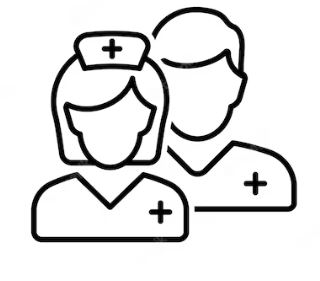
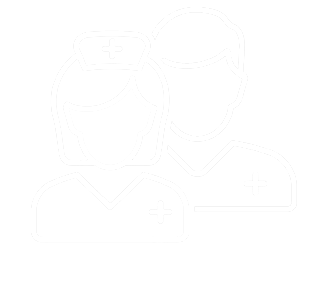
fixed a few things
fixed the links
fixed the images to blend with the cards background
centered the h2 for the cards

Changed region(s): [[0.0938, 0.0, 0.9375, 0.8826]]

diff --git a/Services.html b/Services.html
@@ -14,16 +14,17 @@
 <!-- Clinic logo & name of health center -->
 <img src="images/cross.png" alt="Kuyasa Health Center Logo">  
     <a id="logo_name"> Kuyasa Health Center </a>   
-    <a href="/contact.html">Contact</a>  
-    <a href="/Services.html">Services</a>
-    <a href="/About Us.html">About Us</a>
-    <a class="active"href="/index.html">Home</a>
+    <a href="contact.html">Contact</a>  
+    <a href="Services.html">Services</a>
+    <a href="About Us.html">About Us</a>
+    <a class="active"href="index.html">Home</a>
  </div>
       
         
 <!-- Information cards -->
 <section class="container">
   <div class ="card">
+    <div class="card-image img1"></div>
     <input type="datetime-local" name="schedule" id="scheduletime">
   <input type="submit">
     <h2> Appointment Schedule </h2>

diff --git a/style.css b/style.css
@@ -140,20 +140,27 @@ line-height: 1.5;
   margin-bottom: 15px;
   background-size: cover;
   border-radius: 15px 15px 0 0;
-  
+}
 
+
+.img1 {
+    background-image: url("images/schedule.png");
+  margin: 20%;
 }
 
 .img2 {
-  background-image: url("/images/assistance.png");
+  background-image: url("images/assistance.png");
+  margin: 20%;
 }
 
 .img3 {
-  background-image: url("/images/prescription.png");
+  background-image: url("images/prescription.png");
+  margin: 20%;
 }
 
 .img4 {
-  background-image: url("/images/mental.jpg");
+  background-image: url("images/mental.png");
+  margin: 20%;
 }
 
 .card p{
@@ -163,6 +170,8 @@ line-height: 1.5;
 
 .card h2 {
   color: white;
+  padding: 10%;
+  margin: 0;
 }
 
 .card a{

diff --git a/About Us.html b/About Us.html
@@ -16,10 +16,10 @@
 <!-- Clinic logo & name of health center -->
         <img src="images/cross.png" alt="Kuyasa Health Center Logo"> 
         <a id="logo_name"> Kuyasa Health Center </a>   
-        <a href="/contact.html">Contact</a>  
-        <a href="/Services.html">Services</a>
-        <a href="/About Us.html">About Us</a>
-        <a class="active"href="/index.html">Home</a>
+        <a href="contact.html">Contact</a>  
+        <a href="Services.html">Services</a>
+        <a href="About Us.html">About Us</a>
+        <a class="active"href="index.html">Home</a>
       </div>
 
 

diff --git a/index.html b/index.html
@@ -14,10 +14,10 @@
   <div class="topnav">
     <img src="images/cross.png" alt="Kuyasa Health Center Logo"> 
     <a id="logo_name"> Kuyasa Health Center </a>   
-    <a href="/contact.html">Contact</a>  
-    <a href="/Services.html">Services</a>
-    <a href="/About Us.html">About Us</a>
-    <a class="active"href="/index.html">Home</a>
+    <a href="contact.html">Contact</a>  
+    <a href="Services.html">Services</a>
+    <a href="About Us.html">About Us</a>
+    <a class="active"href="index.html">Home</a>
 </div>
 
 <!-- Content section with welcome message -->

diff --git a/contact.html b/contact.html
@@ -16,10 +16,10 @@
         <a id="logo_name"> Kuyasa Health Center </a>  
 
 <!-- Navigation links--> 
-        <a href="/contact.html">Contact</a>  
-        <a href="/Services.html">Services</a>
-        <a href="/About Us.html">About Us</a>
-        <a class="active"href="/index.html">Home</a>
+        <a href="contact.html">Contact</a>  
+        <a href="Services.html">Services</a>
+        <a href="About Us.html">About Us</a>
+        <a class="active"href="index.html">Home</a>
       </div>
 
 <!-- Contact form -->
